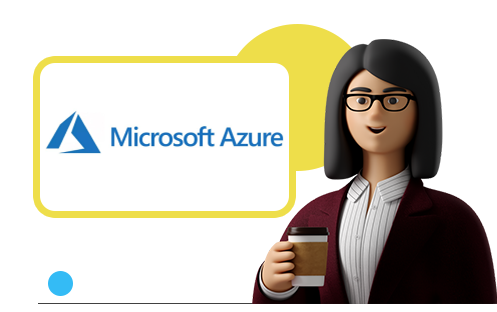
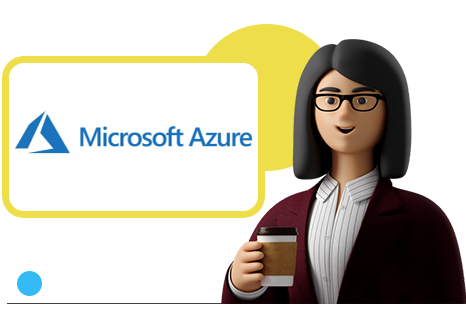
fix images on popular courses

diff --git a/components/PopularCourseItem.tsx b/components/PopularCourseItem.tsx
@@ -3,13 +3,13 @@ import Link from "next/link";
 // @ts-ignore
 export const PopularCourseItem = ({ imageUrl, title, color, children }) => {
   return (
-    <div className="relative border border-gray-500 rounded-lg lg:h-[500px]">
-      <div className="absolute top-0 right-0">
-        <div className="lg:w-[378px] lg:h-[268px]">
-          <img src={imageUrl} />
+    <div className="border border-gray-500 rounded-lg">
+      <div className="mt-1">
+        <div className="lg:w-full">
+          <img src={imageUrl} alt="image"/>
         </div>
       </div>
-      <div className="mt-56 p-8 text-center space-y-4">
+      <div className="p-8 text-center space-y-4">
         <h3 className="font-bold text-xl mt-4">{title}</h3>
         <p>{children}</p>
         <Link href={"https://forms.office.com/r/VEQqdjwzZr"}>

diff --git a/pages/index.tsx b/pages/index.tsx
@@ -7,7 +7,7 @@ import {
   Section,
   SectionSubTitle,
   SectionTitle,
-  Testimonial,
+  Testimonial
 } from "../components";
 import { PopularCourseItem } from "../components/PopularCourseItem";
 import { Statistics } from "../components/Statistics";
